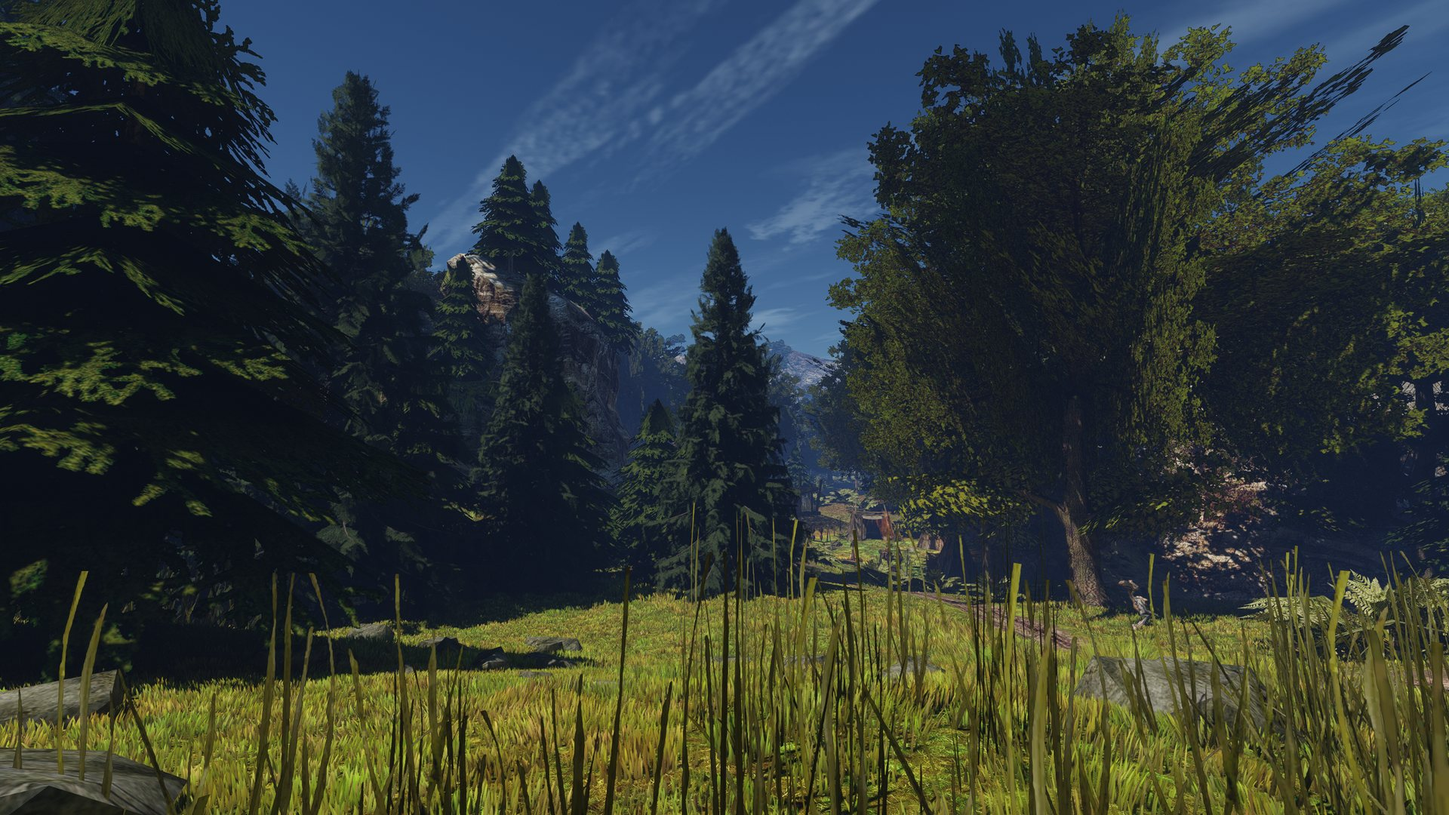
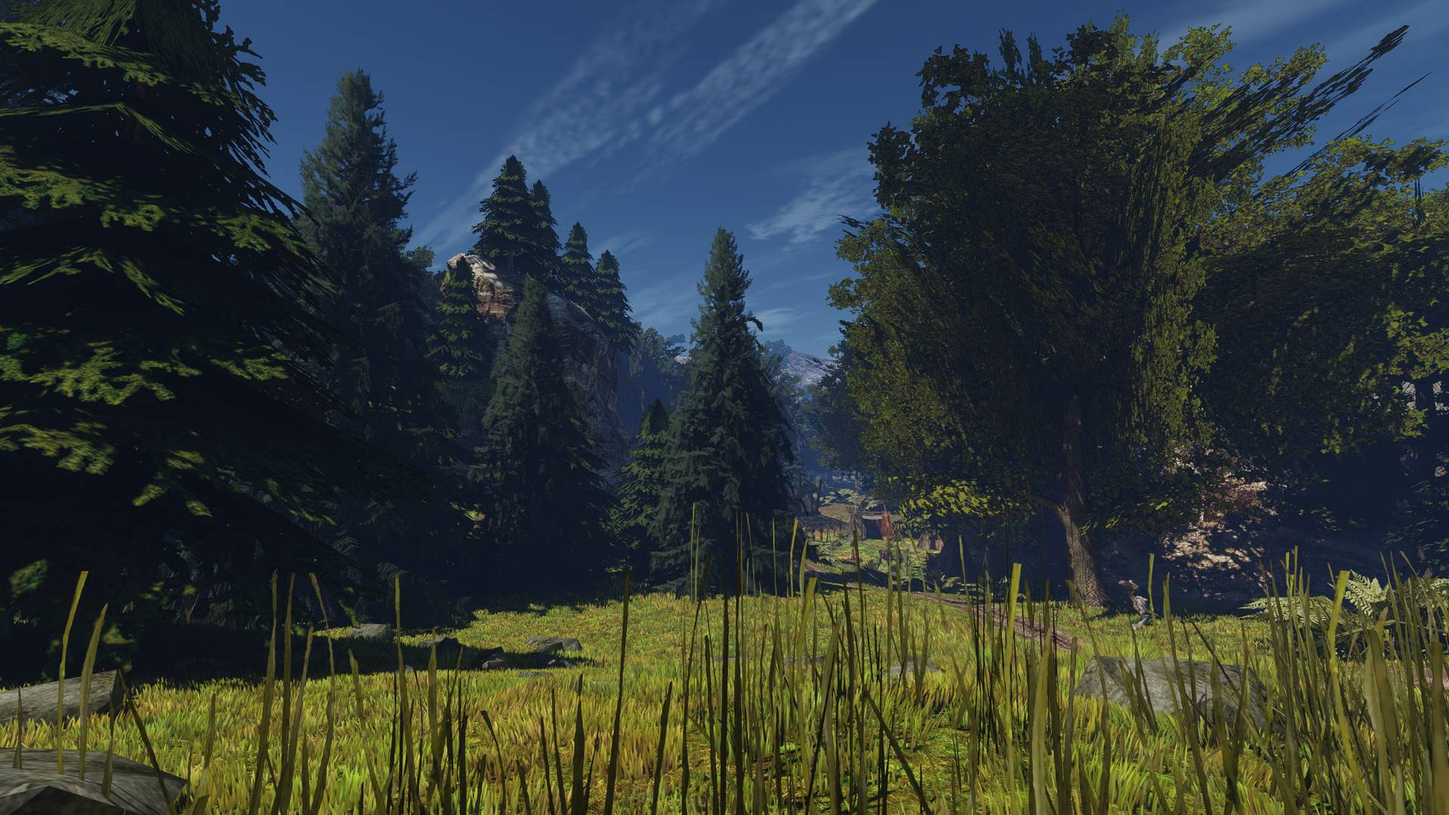
Fir boughs: the note's model section, the pairs before and after, frames of fir-probe-2, the journal and the map

diff --git a/scripts/content/fir_set.py b/scripts/content/fir_set.py
@@ -4,7 +4,7 @@
     uv run --no-project --with numpy --with pillow --with scipy python scripts/content/fir_set.py \
         textures --boughs DIR --bark DIR --out WORK
     uv run --no-project --with numpy --with pillow --with scipy python scripts/content/fir_set.py \
-        probe fir-probe-1 --textures WORK [--from working-28]
+        probe fir-probe-2 --textures WORK [--from working-28]
 
 `textures` reads what mesh3d/blender/fir_boughs.py and fir_bark.py baked (boughs.npz, bark.npz) and writes
 WORK/{boughs,bark}-{albedo,normal,orm}.dds, PNG previews for mesh3d/blender/fir_views.py, boughs-mask.npz (the

diff --git a/reports/content/2026-11-trees/fir/README.md b/reports/content/2026-11-trees/fir/README.md
@@ -123,7 +123,7 @@
 
 ## Модель
 
-Ель А, ближний уровень, 2026-11-17. Строится скриптом без ручных шагов; случайное зерно даёт другое дерево той же породы.
+Ель А, ближний уровень, 2026-11-17. Строится скриптом без ручных шагов; случайное зерно даёт другое дерево той же породы. В тот же день лапы переделаны одним кругом правки по решению пользователя: что изменилось и что осталось плохо — в разделе [«Круг правки лап»](#круг-правки-лап).
 
 ![Лист модели](shots/model-a-sheet.jpg)
 
@@ -131,14 +131,16 @@
 
 ### Что построено
 
-- **Форма** — [`fir_tree.py`](../../../../scripts/content/mesh3d/blender/fir_tree.py) по числам таблицы «Конструкция», числа варианта — в [`fir.json`](../../../../scripts/content/mesh3d/blender/fir.json). Ствол и ветви первого порядка — геометрия: прямой ствол с пятью корневыми лапами, 242 ветви мутовками и между ними, 4 сухих сучка под кроной. Лапы — 4 090 карточек атласа, вырезанных по контуру (6–8 вершин), изогнутых по длине. Масса кроны — второй порядок: карточки вокруг оси каждой ветви полосами (ровные, наклонные, висящие вдоль ветви и поперёк неё), веера на концах, короткие лапы на самом стволе («рукав»).
+- **Форма** — [`fir_tree.py`](../../../../scripts/content/mesh3d/blender/fir_tree.py) по числам таблицы «Конструкция», числа варианта — в [`fir.json`](../../../../scripts/content/mesh3d/blender/fir.json). Ствол и ветви первого порядка — геометрия: прямой ствол с пятью корневыми лапами, 235 ветвей мутовками и между ними, 4 сухих сучка под кроной. Ветвь провисает, конец приподнят; её нормали смотрят вниз, поэтому солнце её не высвечивает — это кора в тени кроны, текстура коры та же.
+- **Лапы** — 3 612 карточек атласа. Карточка не лежит в одной плоскости: два крыла опущены от хребта сводом, хребет провисает с поднятым концом, длинная карточка согнута ещё раз посередине. У висящей лапы и у веера на конце ветви есть третье крыло поперёк двух первых, так что ребром к камере они не встают ни с какой стороны.
+- **Ветвь под лапами.** Над осью каждой ветви от конца до первых 30 % длины лежит «крыша» из вееров внахлёст, как черепица: сверху ось закрыта побегами, голая она только в глубине кроны у ствола. Вокруг оси по очереди идут наклонные лапы и висящие — вдоль ветви и поперёк неё; в вершине кроны висящие стоят на ветви. На самом стволе — короткие лапы («рукав»).
 - **Сторонний генератор деревьев (Sapling, MTree) не используется.** Форму задают числа таблицы, а разметку ветра в вершине, карточки с двойниками и юбку на земле всё равно пишет свой код. Генератор на NumPy работает и без Blender, поэтому ель собирается и проверяется тестом в CI.
-- **Атлас лап** — [`fir_boughs.py`](../../../../scripts/content/mesh3d/blender/fir_boughs.py): семь лап пяти видов (веер, две висящие, боковая, редкая из глубины кроны, два концевых побега) собраны геометрией до хвоинки 1,5–2 см и сняты сверху. Концепт лапы — эталон повадки, картинка не используется. 2048 px, 700 px на метр.
+- **Атлас лап** — [`fir_boughs.py`](../../../../scripts/content/mesh3d/blender/fir_boughs.py): девять лап шести видов (веер, две висящие, две боковые, редкая из глубины кроны, два концевых побега, короткие побеги для верха оси) собраны геометрией и сняты сверху. Побег — ёршик: хвоинки 13–19 мм стоят вокруг него, кроме нижней четверти. Боковые побеги уходят от оси вниз и свисают, концы приподняты. Кроме цвета запекаются доля неба над точкой (тень между побегами и под ними) и высота; нормаль считается из высоты. Лист 2048 px, 1000 px на метр, каждая лапа — в размере своей карточки. Концепт лапы — эталон повадки, картинка не используется.
 - **Кора** — [`fir_bark.py`](../../../../scripts/content/mesh3d/blender/fir_bark.py): чешуи, лишайник, потёки смолы, мох у комля, тоже геометрией. Лист 2 × 4 м: нижние 40 % — комель, один раз; верх повторяется по стволу и ветвям.
-- **Текстуры** — [`fir_set.py textures`](../../../../scripts/content/fir_set.py): по три DDS на материал (цвет, нормаль, ORM), 2048 px. Покрытие атласа 25,3 % на всех 12 уровнях. Запечённая тень между хвоинками и в трещинах коры внесена в цвет: карта AO в движке гасит только свет неба.
-- **Файл** — [`fir.py`](../../../../scripts/content/mesh3d/blender/fir.py) пишет GLB (1,34 МБ), `metrics.json`, картинку плотности и `.blend`. Два материала: `OWN_TREE_FIR_BARK` и `OWN_TREE_FIR_BOUGHS`. Начало координат — центр ствола на земле.
-- **Двойники.** Двусторонних материалов в движке нет, поэтому каждый треугольник карточки записан дважды с обратным обходом по тем же вершинам. Нормали карточек — от оболочки кроны с долей собственной.
-- **Ветер** — `COLOR_0`, четыре нормированных байта, раскладка [ветра дерева](../../../engine/2026-11-16-modern-trees/tree-wind.md): R — вес ветви, G — фаза ветви, B — дрожь листа, A — открытость кроны. Обе записи материалов несут `"foliage": {"anchor": "tree", "wind": 1}`; у лап ещё `flutter: 1` и `translucency: 0.35`.
+- **Текстуры** — [`fir_set.py textures`](../../../../scripts/content/fir_set.py): по три DDS на материал (цвет, нормаль, ORM), 2048 px. Покрытие атласа 18,2 % на всех 12 уровнях. Запечённая тень между побегами и в трещинах коры внесена в цвет: карта AO в движке гасит только свет неба. Света хвои прижаты: светлая десятая часть листа — 1,3 от среднего.
+- **Файл** — [`fir.py`](../../../../scripts/content/mesh3d/blender/fir.py) пишет GLB (1,39 МБ), `metrics.json`, картинку плотности и `.blend`. Два материала: `OWN_TREE_FIR_BARK` и `OWN_TREE_FIR_BOUGHS`. Начало координат — центр ствола на земле.
+- **Двойники.** Двусторонних материалов в движке нет, поэтому каждый треугольник карточки записан дважды с обратным обходом по тем же вершинам. Нормали карточек — от оболочки кроны с долей собственной (35 %), чтобы крылья одной лапы освещались по-разному.
+- **Ветер** — `COLOR_0`, четыре нормированных байта, раскладка [ветра дерева](../../../engine/2026-11-16-modern-trees/tree-wind.md): R — вес ветви, G — фаза ветви, B — дрожь листа, A — открытость кроны. Обе записи материалов несут `"foliage": {"anchor": "tree", "wind": 1}`; у лап ещё `flutter: 1` и `translucency: 0.35`. Эти значения круг правки лап не менял.
 
 ### Числа
 
@@ -146,53 +148,120 @@
 
 | Что | Число | Цель |
 |---|---|---|
-| Рисуемые треугольники | 43 024: кора 5 832, лапы 37 192 (18 596 с двойниками) | до 45 000 |
-| Вершины | 30 116 | — |
-| Высота | 18,09 м | 18 ± 0,5 м |
-| Ширина кроны у земли | 9,21 и 9,67 м | 9–10 м по обеим осям |
+| Рисуемые треугольники | 47 096: кора 6 422, лапы 40 674 (20 337 с двойниками) | до 50 000 |
+| Вершины | 30 670 | — |
+| Высота | 18,07 м | 18 ± 0,5 м |
+| Ширина кроны у земли | 9,48 и 9,44 м | 9–10 м по обеим осям |
 | Ствол | 0,59 м над корневыми лапами, 0,97 м с лапами у земли; корни расходятся на 1,19 м | 0,5–0,7 м, лапы до 1,2 м |
-| Вывернутые части | 0 из 247 замкнутых | 0 |
+| Вывернутые части | 0 из 240 замкнутых | 0 |
 | glTF Validator | 0 ошибок, 0 предупреждений | без ошибок |
+
+Бюджет поднят с 45 000 до 50 000 заданием круга правки. Карточек стало меньше (3 612 против 4 090), треугольников на карточку — больше: свод, сгиб и третье крыло.
 
 Плотность кроны — по двум видам сбоку через 90°, без земли, выше 3 м:
 
 | Что | Вдоль Y | Вдоль X | Предел |
 |---|---|---|---|
-| Фон внутри контура кроны | 9,7 % | 9,6 % | 15 % |
-| Ствол открыт, доля длины | 6,0 % | 4,5 % | 10 % |
+| Фон внутри контура кроны | 10,0 % | 9,2 % | 15 % |
+| Ствол открыт, доля длины | 4,6 % | 4,5 % | 10 % |
 
-Как считается: вид рисуется из файла, 48 пикселей на метр, 3 × 3 луча на пиксель; карточка есть там, где есть покрытие атласа. Контур кроны — картинка дерева, замкнутая диском 0,1 м, с залитыми дырами: он повторяет выемки между ярусами и берёт все просветы внутри. Строка ствола открыта, если больше половины его ширины ничем не закрыто. Мера откалибрована по концепту А: его картинка — 47 пикселей на метр, верхняя треть на фоне неба даёт 5,3–5,9 %. С диском 0,4 м, который перекрывает выемки между ярусами, у концепта выходит 17–20 %, у модели на рендерах — 16,0 и 17,3 %. Та же мера по рендерам Blender без земли даёт 10,5 и 11,4 % (диск 0,1 м): счёт по файлу и по картинке сходится.
+Как считается: вид рисуется из файла, 48 пикселей на метр, 3 × 3 луча на пиксель; карточка есть там, где есть покрытие атласа. Контур кроны — картинка дерева, замкнутая диском 0,1 м, с залитыми дырами: он повторяет выемки между ярусами и берёт все просветы внутри. Строка ствола открыта, если больше половины его ширины ничем не закрыто. Мера откалибрована по концепту А: его картинка — 47 пикселей на метр, верхняя треть на фоне неба даёт 5,3–5,9 %. С диском 0,4 м, который перекрывает выемки между ярусами, у концепта выходит 17–20 %. У первой модели та же мера по рендерам Blender без земли давала 10,5 и 11,4 % — счёт по файлу и по картинке сходился; у новой модели по рендерам она не пересчитывалась.
 
-Раскладка `COLOR_0`: у ствола R = G = B = 0 и A = 255 во всех 435 вершинах; у 246 ветвей и сучков 246 своих фаз, R растёт вдоль ветви от нуля у ствола (корреляция с длиной не ниже 0,999); у всех 4 090 карточек фаза своей ветви, одна вершина-черенок с B = 0 на оси ветви, B = 255 на свободном крае и не меньше двух вершин с B между ними — дрожь нарастает, а не включается ступенькой; все 18 596 пар треугольников целы; открытость A растёт от ствола к контуру кроны (корреляция 0,94).
+Плоскости лап и укрытие осей считает [`fir_tree.py`](../../../../scripts/content/mesh3d/blender/fir_tree.py) (`card_planes`, `axis_cover`), пределы — в `cards.rules` конфига; при нарушении `fir.py` выходит с кодом 1.
 
-Тест [`test_fir_tree.py`](../../../../scripts/content/mesh3d/blender/test_fir_tree.py) собирает ель без Blender и держит размер, бюджет, плотность и раскладку.
+| Роль карточки | Сколько | Наименьший разворот плоскостей | Предел |
+|---|---|---|---|
+| Веер на конце ветви | 235 | 62,5° | не меньше 45° |
+| Висящая лапа | 1 065 | 61,2° | не меньше 45° |
+| Крыша над осью | 649 | 33,1° | не меньше 20° |
+| Боковая лапа | 1 266 | 39,8° | не меньше 20° |
+| Рукав на стволе | 389 | 33,7° | не меньше 20° |
+| Лапы вершины | 8 | 43,6° | не меньше 20° |
+
+- **Разворот плоскостей** лапы — наибольший угол между плоскостями двух её треугольников, от 0 до 90°. У плоского листа он 0°. В таблице — худшая карточка каждой роли.
+- **Укрытие оси.** Ось каждой живой ветви берётся точками через 0,1 м от 30 % её длины до конца; ближе к стволу — глубина кроны, там ось может быть голой. Точка укрыта, если при взгляде строго сверху над верхом ветви в этом месте лежит карточка той же ветви и покрытие атласа там сплошное. Укрыто 93,3 % из 3 568 точек при пределе 85 %; у худшей ветви — 66,7 %.
+
+Раскладка `COLOR_0`: у ствола R = G = B = 0 и A = 255 во всех 435 вершинах; у 239 ветвей и сучков 239 своих фаз, R растёт вдоль ветви от нуля у ствола (корреляция с длиной не ниже 0,999); у всех 3 612 карточек фаза своей ветви, одна вершина-черенок с B = 0 на оси ветви (не дальше 2,9 см от неё), B = 255 на свободном крае и вершины с B между ними — дрожь нарастает, а не включается ступенькой; все 20 337 пар треугольников целы; открытость A растёт от ствола к контуру кроны (корреляция 0,94).
+
+Тест [`test_fir_tree.py`](../../../../scripts/content/mesh3d/blender/test_fir_tree.py) собирает ель без Blender и держит размер, бюджет, плотность, раскладку, разворот плоскостей по ролям и укрытие осей; отдельно проверяет, что плоская карточка меряется как 0°, а ветвь в стороне от своей карточки — как голая.
+
+### Круг правки лап
+
+Первый вид ведущий не принял: рисунок лапы плоский, как папоротник; карточка — плоский лист; оси ветвей светлые и прямые; хвоя вблизи на солнце светлее и зеленее замера.
+
+![Было и стало](shots/boughs-before-after.jpg)
+
+Слева — набор `fir-probe-1`, справа — `fir-probe-2`: те же места, зёрна и камеры, полдень, по одному прогону [`fir-probe.bench`](../../../../scripts/bench/fir-probe.bench) на Ryzen, 2560 × 1440.
+
+**Что сделано и почему**
+
+- **Рисунок лапы.** Побеги с хвоей вокруг, свисающие боковые веточки, тень между побегами и нормаль из настоящей высоты — в атласе, как описано выше.
+- **Размер листа не менялся, раскладка другая.** 2048 px оставлен, плотность поднята с 700 до 1000 px на метр, лап девять вместо семи, каждая мельче и в размере своей карточки. Причина: с 5 м экран 1440p даёт 215 px на метр. Хвоинка на нём меньше пикселя при любом листе, а побег толщиной 3 см — 6 пикселей. Лист 4096 px добавил бы вчетверо памяти и деталь, которую с 5 м не видно.
+- **Рисунок сделан ажурным.** Первая попытка — плотная лапа со сплошным покрытием внутри контура — дала на рендере «зелёную бумагу»: карточка читалась сплошной пластиной, что бы на ней ни было нарисовано. Лапа собрана заново по годовым узлам: толстые побеги ёлочкой и просветы между ними. Покрытие листа упало с 25,3 до 18,2 %.
+- **Запекание — на Mac.** Атлас считается около 25 секунд (Cycles, 48 проходов), поэтому очередь Ryzen не занималась.
+- **Карточки и ветви** — свод, сгиб, третье крыло, крыша над осью и нормали ветвей, как в «Что построено».
+- **Цвет: сначала причина.** Кадр с `translucency: 0` против `0.35` на том же наборе: медиана и светлые 10 % ели с 5 м — `(26, 34, 37)` и `(94, 108, 86)` против `(26, 34, 38)` и `(93, 108, 86)`. Просвет ни при чём. В старом атласе светлая десятая часть была в 1,8–2,1 раза светлее среднего: молодой прирост вдвое светлее хвои и светлые веточки. Теперь прирост светлее в 1,3 раза, веточки темнее хвои, света прижаты при упаковке; средний цвет хвои `(31, 38, 24)` вместо `(33, 40, 23)`.
+
+**Что видно в парах** — смотрел сам, полные кадры: [5 м](shots/game-near.jpg), [2 м](shots/game-close.jpg), [30 м](shots/game-far.jpg), [лапа сбоку](shots/game-bough.jpg).
+
+- **5 м.** Папоротника нет: ярусы читаются еловыми, с ветвей свисает бахрома веточек, между ярусами тень. Светлых палок над лапами нет. Хвоя темнее и серее. Но одиночные крупные висящие лапы, повёрнутые лицом к камере (верх середины кадра), читаются плоским остроконечным пером. Освещённая карточка — ровное светлое пятно с зубчатым краем: объёма хвои вокруг побега с 5 м не видно, видна только ажурность.
+- **2 м, вверх.** Ребром к камере листов нет. Крупные висящие лапы на солнце — бледные плоские перья: плоскость лица карточки читается.
+- **3 м, лапа сбоку.** Ось тёмная и лежит под крышей побегов, с неё свисают веточки, свод даёт ветви толщину. Сами карточки — вырезки с размытой хвоей; на крыльях под скользящим углом рисунок тянется полосами.
+- **30 м.** Ель читается елью, как и раньше; контур чуть более рваный, вершина реже. Тон тот же.
+
+**Итог: частично.** Папоротник, листы ребром и светлые оси ушли. Объём хвои с 5 м лапы не получили: крупная висящая лапа всё ещё читается плоской. Круг один, дальше подбором не шёл. Во что упирается:
+
+- **Свет движка.** Карточка освещается одной нормалью на обе стороны и целиком: побег не бросает тень на соседний. Запечённая тень даёт внутри рисунка перепад около 1,3 раза, а солнце против тени в кадре — около 3,4 раза (светлые 10 % `(89, 105, 86)` при медиане `(24, 31, 36)`). Поэтому на солнце карточка — ровное светлое пятно, в тени — ровное тёмное, и объём, который в жизни рисует свет, не читается. Нормаль из высоты с 5 м усредняется уровнями текстуры.
+- **Число карточек.** Висящая лапа 0,9 × 0,44 м — одна картинка на трёх крыльях. Чтобы она стала гроздью, её надо набирать из трёх-четырёх мелких побегов под разными углами: по грубому счёту это около 13 000 рисуемых треугольников сверх бюджета 50 000. Двусторонние материалы освободили бы 20 337.
+- **Атлас не упирается:** хвоинку с 5 м экран не показывает ни при 2048, ни при 4096 px.
+
+**Цвет в кадрах** (sRGB; области грубые, небо вычтено; «было» и «стало» — в одних и тех же областях, поэтому числа «было» немного отличаются от первой таблицы ниже):
+
+| Что | Медиана, было | Светлые 10 %, было | Медиана, стало | Светлые 10 %, стало |
+|---|---|---|---|---|
+| Ель А с 30 м | `(21, 28, 39)` | `(74, 89, 85)` | `(22, 30, 39)` | `(70, 86, 86)` |
+| Ели оригинала в том же кадре | `(21, 33, 48)` | `(61, 77, 61)` | `(21, 33, 48)` | `(61, 77, 61)` |
+| Ель А с 5 м, вся крона с краем | `(26, 34, 38)` | `(93, 108, 86)` | `(24, 31, 36)` | `(89, 105, 86)` |
+| Ель А с 5 м, середина кроны | `(21, 28, 34)` | `(85, 97, 70)` | `(19, 26, 33)` | `(77, 91, 68)` |
+| Лапа на солнце с 3 м | `(46, 54, 42)` | `(138, 149, 101)` | `(21, 27, 32)` | `(115, 131, 87)` |
+| Цель с 5 м | `(22–27, 30–35, 34–40)` | не светлее `(80, 92, 80)` | | |
+| Замер сцены оригинала | `(22, 29, 34)` | `(58, 71, 78)` | | |
+
+- **Цель по светам не достигнута.** По всей кроне светлые 10 % стали темнее на 3–4 единицы и остались выше цели на 9–13. В середине кроны, без края на фоне неба и соседних деревьев, красный и зелёный легли на цель, но синего мало: хвоя на солнце по-прежнему оливковая и зеленее замера. Медиана по всей кроне в цели.
+- **Кадр с 3 м** сравнивает разные лапы: геометрия другая, и в кадр «стало» попало больше тени, отсюда тёмная медиана. Света там упали на 14–23 единицы — вблизи светлые кончики побегов были видны по отдельности.
+- **С 30 м** ель не потемнела: медиана на 1–2 единицы светлее прежней. Она в пределах елей оригинала из первой таблицы (от `(17, 25, 37)` до `(23, 33, 48)`); ели на скале в этой области синее и немного светлее по медиане — они дальше и в дымке.
+- **Почему света остались.** Атлас давал малую часть: с 5 м текстура усреднена, и светлые 10 % кадра — это средний цвет хвои под прямым солнцем на карточках, чьи нормали смотрят вверх. Оценка, не замер: чтобы уложить всю крону в цель, средний цвет надо затемнить примерно на четверть, и медиана уйдёт к `(21, 27, 32)`, ниже своей цели. Обе цели вместе при нынешнем свете не сходятся. Оттенок дают оливковый средний цвет и тёплое солнце; замер сцены снят с дальней ели, которую красит небо.
 
 ### В игре
 
-Набор-проба `fir-probe-1` (`fir_set.py probe`, вне git): пять елей слоем предметов без коллизии на северной кромке луга к востоку от таверны, в 5–8 м южнее елей оригинала. У слоя предметов нет масштаба, поэтому каждый размер — свой GLB.
+Набор-проба `fir-probe-2` (`fir_set.py probe`, вне git): пять елей слоем предметов без коллизии на северной кромке луга к востоку от таверны, в 5–8 м южнее елей оригинала. У слоя предметов нет масштаба, поэтому каждый размер — свой GLB. Места, зёрна и масштабы те же, что у `fir-probe-1`.
 
-| Ель | Зерно | Масштаб | Высота | Треугольники | Фон в кроне | Ствол открыт |
-|---|---|---|---|---|---|---|
-| 1 | 33 | 1,2 | 21,8 м | 43 262 | 10,1 % | 4,7 % |
-| 2 | 21 | 1,1 | 19,8 м | 42 796 | 9,9 % | 5,2 % |
-| 3 | 48 | 0,8 | 14,5 м | 42 480 | 11,7 % | 3,4 % |
-| 4 — ель А | 7 | 1,0 | 18,1 м | 43 024 | 9,7 % | 6,0 % |
-| 5 | 59 | 0,9 | 16,4 м | 41 228 | 10,4 % | 3,2 % |
+| Ель | Зерно | Масштаб | Высота | Треугольники | Фон в кроне | Ствол открыт | Оси укрыты |
+|---|---|---|---|---|---|---|---|
+| 1 | 33 | 1,2 | 21,7 м | 48 106 | 10,8 % | 7,5 % | 93,1 % |
+| 2 | 21 | 1,1 | 19,8 м | 46 880 | 11,6 % | 5,1 % | 93,6 % |
+| 3 | 48 | 0,8 | 14,4 м | 45 636 | 10,9 % | 5,3 % | 93,5 % |
+| 4 — ель А | 7 | 1,0 | 18,1 м | 47 096 | 10,0 % | 4,6 % | 93,3 % |
+| 5 | 59 | 0,9 | 16,2 м | 44 814 | 11,0 % | 8,3 % | 93,4 % |
 
-Съёмка — [`fir-probe.bench`](../../../../scripts/bench/fir-probe.bench) на Ryzen, полдень, 2560 × 1440, в затишье после порыва. Полуденное солнце движка стоит на западе (−x) на высоте 57°, поэтому камеры смотрят на северо-восток.
+У всех пяти наименьший разворот плоскостей — 60,3° у висящих лап, 62,3° у концевых вееров и 30,7° у остальных ролей.
+
+Съёмка — [`fir-probe.bench`](../../../../scripts/bench/fir-probe.bench) на Ryzen, полдень, 2560 × 1440, в затишье после порыва. Полуденное солнце движка стоит на западе (−x) на высоте 57°, поэтому камеры смотрят на северо-восток. Кадры ниже — `fir-probe-2`.
 
 | 30 м | 5 м от нижних лап |
 |---|---|
 | ![30 м](shots/game-far.jpg) | ![5 м](shots/game-near.jpg) |
 
-![2 м от юбки, вверх в нижние ярусы](shots/game-close.jpg)
+| 2 м от юбки, вверх в нижние ярусы | Лапа на солнце сбоку, 3 м |
+|---|---|
+| ![2 м](shots/game-close.jpg) | ![Лапа](shots/game-bough.jpg) |
 
 - **30 м:** ель А — в центре кадра между елями оригинала на скале и большим деревом справа; слева от неё ель 3. Читается елью: ярусы свисают, вершина — один побег, ствол виден только у земли. Низ закрыт стеблями травы у камеры.
-- **5 м:** лапы лежат слоями, между ярусами тень, на свету хвоя оливково-зелёная. Юбка лежит на траве. Оси ветвей на солнце светлее хвои и заметны.
-- **Прогонов два.** Первый (2026-11-17, 01:43–01:48) снял кадры из-под крон больших деревьев оригинала и против солнца: ели были не видны или в контровом свете. Ели и камеры переставлены под полуденное солнце, второй прогон (01:55–01:56) — кадры выше. Модель и текстуры между прогонами не менялись.
-- **Круг правки цвета не понадобился.** Числа — ниже.
+- **5 м и ближе** — в разделе [«Круг правки лап»](#круг-правки-лап).
+- **Прогоны первой модели.** Первый (2026-11-17, 01:43–01:48) снял кадры из-под крон больших деревьев оригинала и против солнца: ели были не видны или в контровом свете. Ели и камеры переставлены под полуденное солнце, второй прогон (01:55–01:56) дал кадры первой модели.
+- **Прогоны круга правки лап:** `fir-probe-1` с четвёртой камерой (07:26 UTC), он же с `translucency: 0` для поиска причины цвета, `fir-probe-2` (08:09 UTC).
 
-Цвет в кадрах игры (sRGB; области взяты грубо, небо вычтено):
+Цвет первой модели в кадрах игры (sRGB; области взяты грубо, небо вычтено):
 
 | Что | Медиана | Светлые 10 % |
 |---|---|---|
@@ -204,18 +273,18 @@
 
 ### Отличия от замысла
 
-- **Цвет.** Палитра взята из замера сцены, не с концепта: средний цвет хвои в текстуре `(33, 40, 23)`, коры выше комля — `(74, 64, 56)`. С 30 м ель стоит в тоне елей оригинала и замера. Вблизи на солнце лапы светлее «светлого» замера и зеленее его: замер снят с дальней ели, которую красит небо. Ель темнее травы, изумрудного и синего нет.
+- **Цвет.** Палитра взята из замера сцены, не с концепта: средний цвет хвои в текстуре `(31, 38, 24)`, коры выше комля — `(74, 64, 56)`. С 30 м ель стоит в тоне елей оригинала и замера. Вблизи на солнце лапы светлее «светлого» замера и зеленее его — числа в круге правки лап. Ель темнее травы, изумрудного и синего нет.
 - **Плотность кроны.** Фон виден на 10 % контура против 5 % у концепта. Тёмную массу дают лапы второго порядка и рукав на стволе; выемки между ярусами оставлены намеренно — это антиархетип «стриженая поверхность».
 - **Ширина.** На картинке концепта ель при высоте 18 м была бы шириной около 14,6 м. Модель держит таблицу конструкции: 9–10 м.
-- **Лапы вблизи.** С 5 м карточки лежат в разных плоскостях, плоского листа длиннее 1 м в кадре нет — это оценка на глаз, не замер. Но рисунок карточки плоский: побеги с хвоей в одной плоскости похожи на папоротник или тую, объёма хвои вокруг побега нет. Над лапами видны голые светлые оси ветвей. С 2 м (третий кадр) веера на концах ветвей читаются плоскими листами. Хвоинка в атласе — 10–14 пикселей в длину.
+- **Лапы вблизи.** Объёма хвои вокруг побега с 5 м нет: крупная висящая лапа читается плоским пером, освещённая карточка — ровным пятном. Причины — в круге правки лап.
 - **Ствол у земли** с корневыми лапами шире 0,7 м; сам ствол над ними — 0,59 м.
 
 ### Ограничения
 
-- Только ближний уровень: каждая ель — 41–43 тыс. треугольников на любой дистанции. Уровни 1–3, импостер и цена кадра — следующие задачи.
-- Половина треугольников лап — двойники: с двусторонними материалами в движке их станет 18 596.
-- Движок пока не читает открытость кроны (A).
-- Значения `wind`, `flutter` и `translucency` — первые, клипом не подобраны: здесь сняты только стоп-кадры в затишье. Движение принимают отдельно.
+- Только ближний уровень: каждая ель — 45–48 тыс. треугольников на любой дистанции. Уровни 1–3, импостер и цена кадра — следующие задачи.
+- Половина треугольников лап — двойники: с двусторонними материалами в движке их станет 20 337.
+- Движок пока не читает открытость кроны (A) и не затеняет по ней глубину кроны.
+- Значения `wind`, `flutter` и `translucency` — первые, клипом не подобраны: здесь сняты только стоп-кадры в затишье. Движение принимают отдельно; у новых карточек оно не снималось.
 - Проба стоит без коллизии и рядом с елями оригинала; замена деревьев мира — отдельная задача.
 - Ель В и вариации по возрасту не построены.
 
@@ -232,9 +301,9 @@ $B -b --factory-startup --python-exit-code 1 -P $D/fir.py -- --out $WORK/fir-a
 $B -b --factory-startup --python-exit-code 1 -P $D/fir_views.py -- --glb $WORK/fir-a/fir-a.glb --out $WORK/views \
   --boughs $WORK/tex/boughs.png --boughs-normal $WORK/tex/boughs-normal.png \
   --bark $WORK/tex/bark.png --bark-normal $WORK/tex/bark-normal.png
-$U scripts/content/fir_set.py probe fir-probe-1 --textures $WORK/tex
-OPENGOTHIC_CONTENT=$HOME/.local/share/gothic-ai/remaster/trees-fir/fir-probe-1 TEMPEST_WINDOW_SIZE=2560x1440 \
+$U scripts/content/fir_set.py probe fir-probe-2 --textures $WORK/tex
+OPENGOTHIC_CONTENT=$HOME/.local/share/gothic-ai/remaster/trees-fir/fir-probe-2 TEMPEST_WINDOW_SIZE=2560x1440 \
   BENCH_HOST=ryzen scripts/bench.sh fir-probe /absolute/out
 ```
 
-`$WORK` — абсолютный путь вне git. `fir.py` без Blender (`python fir.py --out …`) пишет то же, кроме `.blend`. Маска покрытия атласа для счёта плотности лежит в git: [`fir-boughs-mask.npz`](../../../../scripts/content/mesh3d/blender/fir-boughs-mask.npz); после пересборки атласа её копируют из `$WORK/tex/boughs-mask.npz`.
+`$WORK` — абсолютный путь вне git. `fir.py` без Blender (`python fir.py --out …`) пишет то же, кроме `.blend`. Маска покрытия атласа для счёта плотности и укрытия осей лежит в git: [`fir-boughs-mask.npz`](../../../../scripts/content/mesh3d/blender/fir-boughs-mask.npz); после пересборки атласа её копируют из `$WORK/tex/boughs-mask.npz`. `probe` не пишет поверх готового набора: новому набору нужно новое имя.

diff --git a/docs/map/tests.md b/docs/map/tests.md
@@ -29,7 +29,7 @@
 | Съёмка пилота ландшафта | `TEMPEST_WINDOW_SIZE=2560x1440 BENCH_HOST=ryzen scripts/bench.sh landscape-pilot` — участок `4_-2`…`7_1` вокруг таверны камерой игры: 13 точек по 4 кадра днём, 5 точек по 2 кадра ночью, клипы `walk-road` и `walk-forest`; около 7 минут игры. Это половина «сейчас» для пар и клипов пилота; точки меняются только вместе с [заметкой](../../reports/content/2026-11-landscape-pilot/README.md). [Шаг В1](../landscape-plan.md#план-и-журнал) |
 | Съёмка материала скал | `TEMPEST_WINDOW_SIZE=2560x1440 BENCH_HOST=ryzen OPENGOTHIC_CONTENT=<набор> scripts/bench.sh landscape-rock-material` — ракурсы пробы слоёв: стена и валун у дороги (4 кадра днём, 2 вечером), уступ издали и полоса травы на нём с 5 м (`ledge-near`), арка у лагеря бандитов, клип прохода `walk-rock`; клипы [живой листвы](../../reports/engine/2026-11-14-living-foliage/README.md#клипы) `ledge-wind`, `ledge-steady`, `walk-ledge`, `eve-backlit` — пара с `OPENGOTHIC_FOLIAGE=0` и без; с пустым `OPENGOTHIC_CONTENT=` — оригинал для пар. Ракурсы меняются только вместе с [заметкой](../../reports/content/2026-11-landscape-pilot/b3-rock-material.md). [Шаг В3](../landscape-plan.md#план-и-журнал) |
 | Проба ветра дерева | `uv run --no-project --with numpy --with pillow --with scipy python scripts/content/tree_wind_probe.py <набор>` собирает набор-черновик: шесть грубых елей 12 м с `COLOR_0` на лугу пилота. `OPENGOTHIC_CONTENT=<набор> TEMPEST_WINDOW_SIZE=2560x1440 BENCH_HOST=ryzen scripts/bench.sh tree-wind-probe <папка>` — кадры `far` (пик порыва), `far-lull` (затишье), `shade` (тени, с востока), `near` (ветки с 5 м); пара прогонов с `OPENGOTHIC_FOLIAGE=0` и без. Правило на процессоре — `foliageTreeMaths` в `gothic-material-texture-test`, `COLOR_0` — `gothic-mesh-gltf-test`. [Заметка](../../reports/engine/2026-11-16-modern-trees/tree-wind.md#кадры-пробы) |
-| Ель: сборка и проба в игре | `python scripts/content/mesh3d/blender/fir.py --out <папка>` (в Blender — ещё `.blend`) строит ель А и пишет `metrics.json`: размер, бюджет треугольников, раскладку `COLOR_0` (`tree_check.py`) и плотность кроны по двум видам сбоку (`tree_density.py`); код выхода 1 при нарушении. Тест `scripts/content/mesh3d/blender/test_fir_tree.py`. Атлас лап и кора — `fir_boughs.py`, `fir_bark.py`, упаковка в DDS и набор-проба — `scripts/content/fir_set.py textures` и `probe`, лист рендеров — `fir_views.py`. `OPENGOTHIC_CONTENT=<набор> TEMPEST_WINDOW_SIZE=2560x1440 BENCH_HOST=ryzen scripts/bench.sh fir-probe <папка>` — пять елей на кромке луга пилота в полдень: кадры `row`, `far` (30 м), `near` (5 м от нижних лап), `close`. [Заметка](../../reports/content/2026-11-trees/fir/README.md#модель) |
+| Ель: сборка и проба в игре | `python scripts/content/mesh3d/blender/fir.py --out <папка>` (в Blender — ещё `.blend`) строит ель А и пишет `metrics.json`: размер, бюджет треугольников, раскладку `COLOR_0` (`tree_check.py`), плотность кроны по двум видам сбоку (`tree_density.py`), разворот плоскостей лап и укрытие осей ветвей (`fir_tree.py`); код выхода 1 при нарушении. Тест `scripts/content/mesh3d/blender/test_fir_tree.py`. Атлас лап и кора — `fir_boughs.py`, `fir_bark.py`, упаковка в DDS и набор-проба — `scripts/content/fir_set.py textures` и `probe`, лист рендеров — `fir_views.py`. `OPENGOTHIC_CONTENT=<набор> TEMPEST_WINDOW_SIZE=2560x1440 BENCH_HOST=ryzen scripts/bench.sh fir-probe <папка>` — пять елей на кромке луга пилота в полдень: кадры `row`, `far` (30 м), `near` (5 м от нижних лап), `close` (2 м, вверх), `bough` (лапа сбоку с 3 м). [Заметка](../../reports/content/2026-11-trees/fir/README.md#модель) |
 | Проба своего GLB с альфа-маской | `uv run --no-project --with numpy --with scipy python scripts/content/own_glb_probe.py <набор>`, затем `TEMPEST_WINDOW_SIZE=2560x1440 BENCH_HOST=ryzen OPENGOTHIC_CONTENT=<набор> scripts/bench.sh own-glb-probe` — панели 40 см над лугом вида `ledge`, кадры `front`, `back`, `front-eve`: доходят ли нормали вершин до света как записаны, с одной или двух сторон рисуется материал с маской, как слой предметов применяет `rotation`. [Раздел 4 исследования травы](../../reports/engine/2026-11-13-grass/README.md#4-что-умеет-движок) |
 | Цена материала скал | `BENCH_HOST=ryzen PERF_WINDOW=1920x1080 PERF_ENV='OPENGOTHIC_CONTENT=<набор на Ryzen> TEMPEST_OFFSCREEN=1' scripts/perf.sh rock` — виды `road-3` и `ledge-near` (пучки у камеры) той же съёмки, по 8 с `perf sample`, время видеокарты на кадр (`gpu_ns`), заявка `quiet`. Без экрана: окно стенда на рабочем столе Ryzen идёт кадр в секунду (2026-11-13). [Задача 1 В3](../../reports/content/2026-11-landscape-pilot/b3-rock-material.md#задача-1-что-вышло) |
 | Лучи по умолчанию: лист и облёты | `rt-default-sheet.bench` — кадры видов, принятых без GI (факел, гавань, рынок, хижина, лицо), снимают дважды: `OPENGOTHIC_RT=0` и по правилу; `rt-default-soak.bench` — 10 кругов облёта без выгрузки; `rt-default-unload.bench` — 18 циклов «рынок → за край мира → долина → ферма → рынок» с выгрузкой кусков, запускают копией под именем `streaming-flythrough` (сборка профайлера, строки `render: rt landscape`) и `TEMPEST_OFFSCREEN=1` ([приёмка](../../reports/render-features/2026-11-08-rt-revisit/step-default.md#сделано-1415112026)) |

diff --git a/docs/landscape-plan.md b/docs/landscape-plan.md
@@ -179,3 +179,4 @@ Claude, по [конвейеру ремастера](remaster-pipeline.md); ка
 - **2026-11-17.** В3, дорога принята. Пользователь посмотрел клипы после возврата цвета и принял вид дороги («Принимаю») как приближение: несошедшиеся места из заметки остаются, третьего круга нет. Долги: цена с трассировкой #1480, числа материала в двух местах #1478, Metal #1479.
 - **2026-11-17.** В5, деревья, задача 1 доработок движка: ветер дерева. Материал с `"foliage": {"anchor": "tree"}` качается как дерево — ствол клонится по напору и качается на частоте от высоты (0,56 Гц у 12 м, 0,28 Гц у 30 м), ветка кивает, лист дрожит; что вершина — ствол, ветка или лист, говорит цвет вершины своего GLB (`COLOR_0`), который теперь доезжает до шейдера. Числа выведены из измерений настоящих деревьев; порыв по размаху — ветер в 7 баллов (верхушка на 3 % высоты). Цвет читает отдельный файл рядом с загрузчиком, чтобы не менять отпечаток базы (долг #1482). Проба — шесть грубых елей 12 м на лугу пилота: на пике порыва верхушки ушли на 12–14 пикселей (около 0,3 м с 26 м), в затишье стоят в 0–2 пикселях от покоя, конец тени ушёл на 43–58 пикселей вместе с елью. Клипы и приёмка движения глазом — отдельной задачей. [Заметка](../reports/engine/2026-11-16-modern-trees/tree-wind.md#2-что-построено).
 - **2026-11-17.** В5, деревья: первая современная ель — вариант А, ближний уровень ([«Модель»](../reports/content/2026-11-trees/fir/README.md#модель)). Скрипт `scripts/content/mesh3d/blender/fir.py` строит ель по числам замысла: ствол и 242 ветви геометрией, 4 090 карточек лап из своего атласа, своя кора, ветер в `COLOR_0`; 43 024 рисуемых треугольника при бюджете 45 000, высота 18,1 м, крона у земли 9,2 и 9,7 м. Первый вид ведущий не принял — крона редкая и плоская; после круга правки фон виден на 9,7 % контура кроны (предел 15 %, у концепта около 5 %), ствол выше 3 м открыт на 6,0 % длины (предел 10 %) — числа считает `tree_density.py` по файлу. Набор-проба `fir-probe-1` и стенд `fir-probe.bench`: пять елей 14–22 м на кромке луга пилота рядом с елями оригинала, кадры с 30 и 5 м в полдень; с 30 м ель стоит в тоне елей оригинала, круг правки цвета не понадобился. Дальше — уровни детализации и импостер, цена кадра, ель В.
+- **2026-11-17.** В5, деревья: круг правки лап ели А ([«Круг правки лап»](../reports/content/2026-11-trees/fir/README.md#круг-правки-лап)), один по решению пользователя. Атлас пересобран: хвоя вокруг побега, свисающие веточки, тень и нормаль из высоты, 1000 px на метр на том же листе 2048 px, рисунок ажурный. Карточка лапы — свод со сгибом, у висящих лап и концевых вееров третье крыло; над осью ветви лежит крыша из побегов, ветвь затенена нормалями. 47 096 рисуемых треугольников при бюджете 50 000, фон в кроне 10,0 %, ствол открыт на 4,6 %; тест держит разворот плоскостей лап (не меньше 45° у висящих и концевых) и укрытие осей (93 % при пределе 85 %). Набор `fir-probe-2`, четвёртая камера стенда, по одному прогону «было» и «стало». Итог частичный: папоротник, листы ребром и светлые оси ушли, но крупная висящая лапа с 5 м всё ещё читается плоским пером, а светлые 10 % хвои на солнце — `(89, 105, 86)` при цели `(80, 92, 80)`. Причина — свет движка: одна нормаль на карточку и нет тени побега на побег; гроздь из мелких карточек не влезает в бюджет без двусторонних материалов. Дальше подбором не шли.
